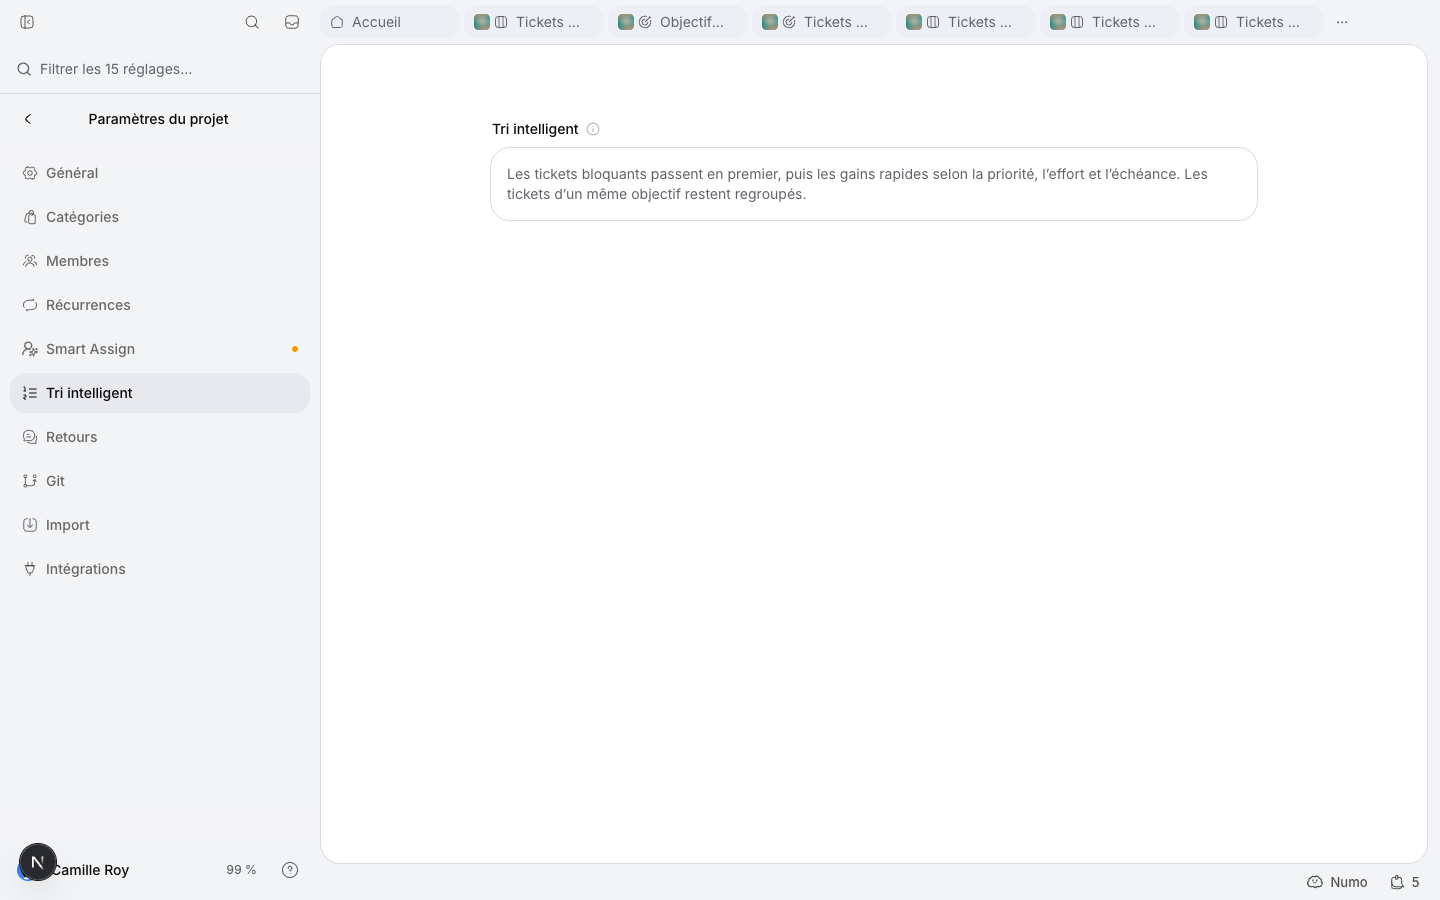
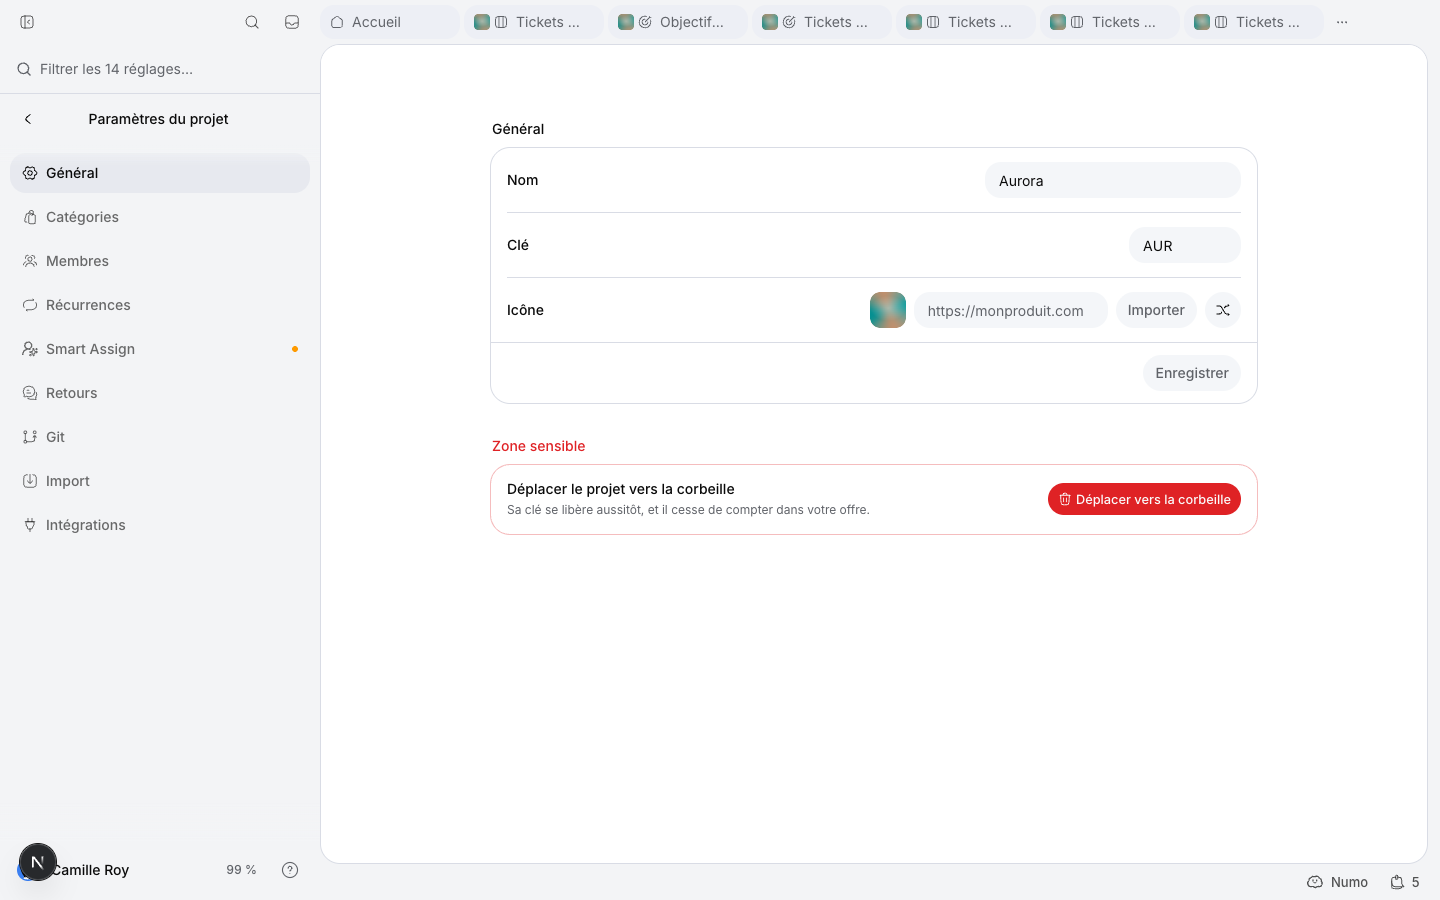
fix: remove redundant Smart Triage settings section

diff --git a/lib/settings-sections.ts b/lib/settings-sections.ts
@@ -1,6 +1,6 @@
 import type { AppIcon } from "@/components/icon";
 import { useMemo } from "react";
-import { AppWindowIcon as AppWindow, AiAutoRotateIcon as CycleIcon, BarChartIcon, BellRingIcon as BellRing, BotIcon as Bot, CalendarClockIcon, CodeSimpleIcon as Code2, Download, FlowIcon as Workflow, FolderKanbanIcon, GitBranchIcon as GitBranch, ImportIcon, InboxIcon as Inbox, Keyboard, KeyRoundIcon as KeyRound, Languages, ListOrderedIcon as ListOrdered, ListPlus, LockIcon, LogOut, MessageMultiple01Icon as MessagesSquare, Palette, PlugIcon as Plug, RepeatIcon as Repeat, Settings02Icon as Settings2, ShieldOff, Sparkles, TagsIcon as Tags, TicketIcon as Ticket, Trash2, TriangleAlertIcon, Upload04Icon as Upload, UserGroupIcon as Users, UserIcon as User } from "@hugeicons/core-free-icons";
+import { AppWindowIcon as AppWindow, AiAutoRotateIcon as CycleIcon, BarChartIcon, BellRingIcon as BellRing, BotIcon as Bot, CalendarClockIcon, CodeSimpleIcon as Code2, Download, FlowIcon as Workflow, FolderKanbanIcon, GitBranchIcon as GitBranch, ImportIcon, InboxIcon as Inbox, Keyboard, KeyRoundIcon as KeyRound, Languages, ListPlus, LockIcon, LogOut, MessageMultiple01Icon as MessagesSquare, Palette, PlugIcon as Plug, RepeatIcon as Repeat, Settings02Icon as Settings2, ShieldOff, Sparkles, TagsIcon as Tags, TicketIcon as Ticket, Trash2, TriangleAlertIcon, Upload04Icon as Upload, UserGroupIcon as Users, UserIcon as User } from "@hugeicons/core-free-icons";
 import { useTranslations } from "next-intl";
 import { SmartAssignIcon } from "@/components/smart-icons";
 
@@ -44,7 +44,6 @@ export type ProjectSettingsTab =
   | "members"
   | "recurrences"
   | "smart-assign"
-  | "smart-triage"
   | "feedback"
   | "git"
   | "import"
@@ -88,7 +87,6 @@ export const SETTINGS_SECTIONS = {
   projectMembers: "project-members",
   projectRecurrences: "project-recurrences",
   projectSmartAssign: "project-smart-assign",
-  projectSmartTriage: "project-smart-triage",
   projectFeedbackBoard: "project-feedback-board",
   projectFeedbackApi: "project-feedback-api",
   projectFeedbackReview: "project-feedback-review",
@@ -186,7 +184,6 @@ export function useSettingsSections(): SettingsSection[] {
       members: tSettings("membersTab"),
       recurrences: tSettings("recurrencesTab"),
       "smart-assign": tSettings("smartAssignTab"),
-      "smart-triage": tSettings("smartTriageTab"),
       feedback: tSettings("feedbackTab"),
       git: tSettings("gitTab"),
       import: tSettings("importTab"),
@@ -547,19 +544,6 @@ export function useSettingsSections(): SettingsSection[] {
           "smart assign", "assignation", "assignment", "assigné", "assigne",
           "assignee", "règles", "regles", "rules", "répartition",
           "repartition", "automatique", "automatic",
-        ],
-      }),
-      project({
-        id: SETTINGS_SECTIONS.projectSmartTriage,
-        tab: "smart-triage",
-        icon: ListOrdered,
-        title: tSettings("smartTriageTab"),
-        audience: "owner",
-        keywords: [
-          "tri", "trier", "triage", "smart triage", "trier", "order", "ordre",
-          "réordonner", "reordonner", "reorder", "prioriser", "prioritize",
-          "quick wins", "priorité", "priorite", "priority", "effort",
-          "blocants", "blockers", "colonnes", "columns", "board", "jev",
         ],
       }),
       project({

diff --git a/app/(app)/projects/[id]/settings/page.tsx b/app/(app)/projects/[id]/settings/page.tsx
@@ -1,7 +1,7 @@
 "use client";
 
 import { useState } from "react";
-import { GitBranchIcon as GitBranch, ImportIcon, ListOrderedIcon as ListOrdered, MessageMultiple01Icon as MessagesSquare, PlugIcon as Plug, RepeatIcon as Repeat, Settings02Icon as Settings2, TagsIcon as Tags, UserGroupIcon as Users } from "@hugeicons/core-free-icons";
+import { GitBranchIcon as GitBranch, ImportIcon, MessageMultiple01Icon as MessagesSquare, PlugIcon as Plug, RepeatIcon as Repeat, Settings02Icon as Settings2, TagsIcon as Tags, UserGroupIcon as Users } from "@hugeicons/core-free-icons";
 import { useParams } from "next/navigation";
 import { useAppRouter } from "@/lib/use-app-router";
 import Link from "@/components/app-link";
@@ -20,7 +20,6 @@ import { ProjectGitSection } from "@/components/settings/project-git-section";
 import { ProjectImportSection } from "@/components/settings/project-import-section";
 import { ProjectRecurrencesSection } from "@/components/settings/project-recurrences-section";
 import { SmartAssignSection } from "@/components/settings/smart-assign-section";
-import { SmartTriageSection } from "@/components/settings/smart-triage-section";
 import { SettingsGroup } from "@/components/settings/settings-ui";
 import {
   PROJECT_SETTINGS_DEFAULT_TAB,
@@ -147,12 +146,6 @@ export default function ProjectSettingsPage() {
         ? t("smartAssignIncompleteTab")
         : undefined,
       content: <SmartAssignSection project={project} isOwner={isOwner} />,
-    },
-    {
-      value: "smart-triage",
-      label: t("smartTriageTab"),
-      icon: ListOrdered,
-      content: <SmartTriageSection />,
     },
     {
       value: "feedback",

diff --git a/lib/ai-model-config.ts b/lib/ai-model-config.ts
@@ -114,11 +114,6 @@ export const AI_MODEL_CONFIG_FIELDS: AiConfigField[] = [
   // cuts it everywhere at once, and the form falls back to hand entry.
   { key: "smart_fill_enabled", kind: "flag", fallback: "true", group: "automations" },
   { key: "smart_fill_model", kind: "model", fallback: "deepseek/deepseek-v4-flash", group: "automations" },
-  // Smart Triage (lib/server/smart-triage.ts, MIN-566): the LLM scoring pass
-  // of a column reorder — ONE call per column, answering every ticket id on
-  // the 1–5 urgency scale (the Jev half rides `jev_model` above). Someone
-  // waits in front of their board: a fast model, like smart-fill's. The rules
-  // mode costs nothing; only this fallback pass reads the key.
   // Title of a Numo conversation (lib/server/assistant/title.ts): a call from
   // a few dozen tokens per new conversation — a small model is enough,
   // and that's exactly the kind of call where a big guy doesn't justify himself.

diff --git a/lib/project-removal-navigation.test.ts b/lib/project-removal-navigation.test.ts
@@ -46,7 +46,6 @@ vi.mock("@/components/settings/project-git-section", () => ({ ProjectGitSection:
 vi.mock("@/components/settings/project-import-section", () => ({ ProjectImportSection: () => null }));
 vi.mock("@/components/settings/project-recurrences-section", () => ({ ProjectRecurrencesSection: () => null }));
 vi.mock("@/components/settings/smart-assign-section", () => ({ SmartAssignSection: () => null }));
-vi.mock("@/components/settings/smart-triage-section", () => ({ SmartTriageSection: () => null }));
 vi.mock("@/components/project-icon-picker", () => ({ ProjectIconPicker: () => null }));
 vi.mock("@/components/route-skeletons", () => ({ SettingsPageSkeleton: () => null }));
 
